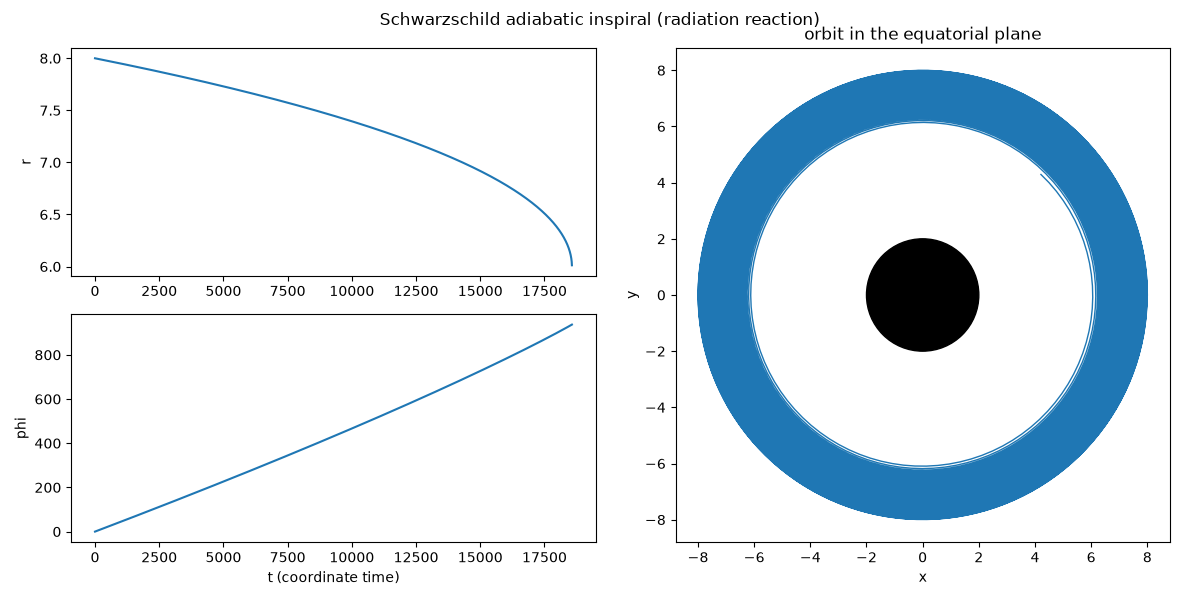
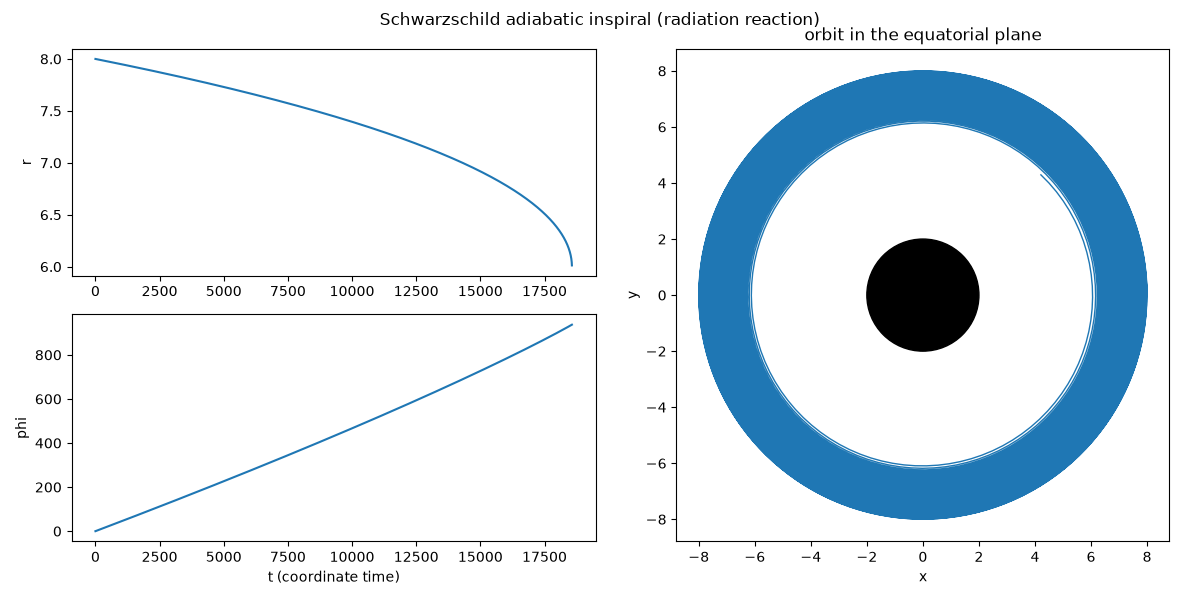
One more thing. Updated inspiral visualizations to include power spectrum of gravitational waves

diff --git a/1_particle_orbiting_kerr_black_hole/radiation/inspiral.py b/1_particle_orbiting_kerr_black_hole/radiation/inspiral.py
@@ -45,6 +45,10 @@ from core import MissingParameterError, System
 from schwarzschild import circular_orbit_dE_da
 from visualization import plot_orbit_panels
 
+from quadrupole import mass_quadrupole
+from waveform import strain_plus_cross
+from waveform_visualization import plot_chirp_spectrogram, plot_power_spectrum, plot_strain_timeseries
+
 # Fraction of the ISCO radius (6M) at which the adiabatic sequence-of-
 # circular-orbits approximation is stopped, since dE/da -> 0 there and da/dt
 # formally diverges (see module docstring).
@@ -69,11 +73,14 @@ class SchwarzschildAdiabaticInspiral(System):
     """
 
     REQUIRED_PARAMETERS = (
-        "M",       # black hole mass
-        "mu",      # orbiting particle's mass (test-particle limit: mu << M)
-        "a0",      # initial orbital radius (a0 > 6M for a stable start)
-        "phi0",    # initial azimuthal angle
-        "t_max",   # coordinate time to integrate to
+        "M",         # black hole mass
+        "mu",        # orbiting particle's mass (test-particle limit: mu << M)
+        "a0",        # initial orbital radius (a0 > 6M for a stable start)
+        "phi0",      # initial azimuthal angle
+        "t_max",     # coordinate time to integrate to
+        "theta_obs", # observer polar angle, for strain_plus_cross (no default -- see waveform.py)
+        "phi_obs",   # observer azimuthal angle, for strain_plus_cross
+        "D",         # observer distance, for strain_plus_cross
     )
 
     def validate(self, params: Dict[str, Any]) -> None:
@@ -125,6 +132,14 @@ class SchwarzschildAdiabaticInspiral(System):
         Rddot = np.gradient(Rdot, dt)
         phiddot = np.gradient(phidot, dt)
 
+        # Downstream quadrupole pipeline (see module docstring): the
+        # trajectory alone is spacetime/observer-agnostic, so Qddot is always
+        # computed here; strain_plus_cross needs an observer direction and is
+        # deferred to visualize() (theta_obs/phi_obs/D pulled from `params`
+        # there via .get(), so this stays optional for callers -- like the
+        # tests -- that only want the trajectory).
+        _, Qddot = mass_quadrupole(a, phi, Rdot, phidot, Rddot, phiddot, mu, M)
+
         return {
             "t": t,
             "r": a,
@@ -133,8 +148,14 @@ class SchwarzschildAdiabaticInspiral(System):
             "phidot": phidot,
             "Rddot": Rddot,
             "phiddot": phiddot,
+            "Qddot": Qddot,
             "reached_isco": reached_isco,
-            "params": {"M": M, "mu": mu, "a0": params["a0"], "phi0": params["phi0"]},
+            "params": {
+                "M": M, "mu": mu, "a0": params["a0"], "phi0": params["phi0"],
+                "theta_obs": params.get("theta_obs"),
+                "phi_obs": params.get("phi_obs"),
+                "D": params.get("D"),
+            },
         }
 
     def visualize(self, result: Dict[str, np.ndarray]) -> None:
@@ -152,4 +173,29 @@ class SchwarzschildAdiabaticInspiral(System):
             time_label="t (coordinate time)",
             title="Schwarzschild adiabatic inspiral (radiation reaction)",
             filename=filename,
+        )
+
+        h_plus, h_cross = strain_plus_cross(result["Qddot"], p["theta_obs"], p["phi_obs"], p["D"])
+        wave_stem = (
+            f"schwarzschild_inspiral_M{p['M']:g}_mu{p['mu']:g}"
+            f"_a0{p['a0']:g}_phi0{p['phi0']:g}"
+        )
+        plot_strain_timeseries(
+            result["t"], h_plus, h_cross,
+            filename=f"{wave_stem}_strain.png",
+            title="Adiabatic inspiral GW strain",
+        )
+        # A single FFT peak isn't meaningful for a chirp (the frequency isn't
+        # stationary), but the broadband spectrum is still worth plotting
+        # alongside the spectrogram, which shows the rising frequency
+        # directly -- per waveform_visualization.py's docstrings.
+        plot_power_spectrum(
+            result["t"], h_plus,
+            filename=f"{wave_stem}_spectrum.png",
+            title="Adiabatic inspiral strain power spectrum",
+        )
+        plot_chirp_spectrogram(
+            result["t"], h_plus,
+            filename=f"{wave_stem}_spectrogram.png",
+            title="Adiabatic inspiral chirp spectrogram",
         )
